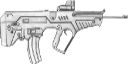
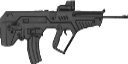
- Rifle texture changed - Physics max velocity increased - Rifle projectile velocity increased

diff --git a/SketchWars/src/sketchwars/character/weapon/RangedWeapon.java b/SketchWars/src/sketchwars/character/weapon/RangedWeapon.java
@@ -3,6 +3,7 @@ package sketchwars.character.weapon;
 import sketchwars.character.SketchCharacter;
 import sketchwars.character.projectiles.*;
 import sketchwars.graphics.Texture;
+import sketchwars.physics.Vectors;
 import sketchwars.sound.SoundPlayer;
 
 /**
@@ -10,6 +11,8 @@ import sketchwars.sound.SoundPlayer;
  * @author Najash Najimudeen <najash.najm@gmail.com>
  */
 public class RangedWeapon extends AbstractWeapon {
+    private static final double VELOCITY = 5;
+    
     public RangedWeapon(Texture texture, float width, float height, ProjectileFactory projectileFactory) {
         super(texture, width, height, projectileFactory);     
         init();
@@ -27,7 +30,8 @@ public class RangedWeapon extends AbstractWeapon {
         {
             System.err.println(e.getMessage());
         }
-        return  projectileFactory.createRanged(owner, vPosition, vVelocity);
+        long newVelocity = Vectors.scalarMultiply(VELOCITY, vVelocity);
+        return  projectileFactory.createRanged(owner, vPosition, newVelocity);
     }
 
     @Override

diff --git a/SketchWars/src/sketchwars/character/weapon/PencilWeapon.java b/SketchWars/src/sketchwars/character/weapon/PencilWeapon.java
@@ -79,8 +79,8 @@ public class PencilWeapon extends AbstractWeapon {
     public void render() {
         if (texture != null) {
             texture.draw(null, targetX + eWidth, targetY + eHeight, width, height);
-        if (timer.getRemainingMillis() != 0)
-            timeLabel.render();
+            /*if (timer.getRemainingMillis() != 0)
+                timeLabel.render();*/
         }
     }
 

diff --git a/SketchWars/src/sketchwars/character/projectiles/ProjectileFactory.java b/SketchWars/src/sketchwars/character/projectiles/ProjectileFactory.java
@@ -78,7 +78,7 @@ public class ProjectileFactory
         Collider coll = new GamePixelCollider(proj, bm, CollisionBehaviour.NOTIFY);
         proj.setCollider(coll);
 
-        setColliderProperties(coll, vPosition, vVelocity, 100.0f, 0.01f);
+        setColliderProperties(coll, vPosition, vVelocity, 1.0f, 0.01f);
 
         addProjectile(proj);
         return proj;

diff --git a/SketchWars/src/sketchwars/physics/Physics.java b/SketchWars/src/sketchwars/physics/Physics.java
@@ -6,7 +6,7 @@ import java.util.HashSet;
 
 public class Physics
 {
-	public static final double MAX_SPEED = 1000.0f;
+	public static final double MAX_SPEED = 5000.0f;
 	private List<PhysicsObject> allPhysicsObjects;
     private List<Collider> allColliders;
     private List<PhysicsEffect> globalEffects;
